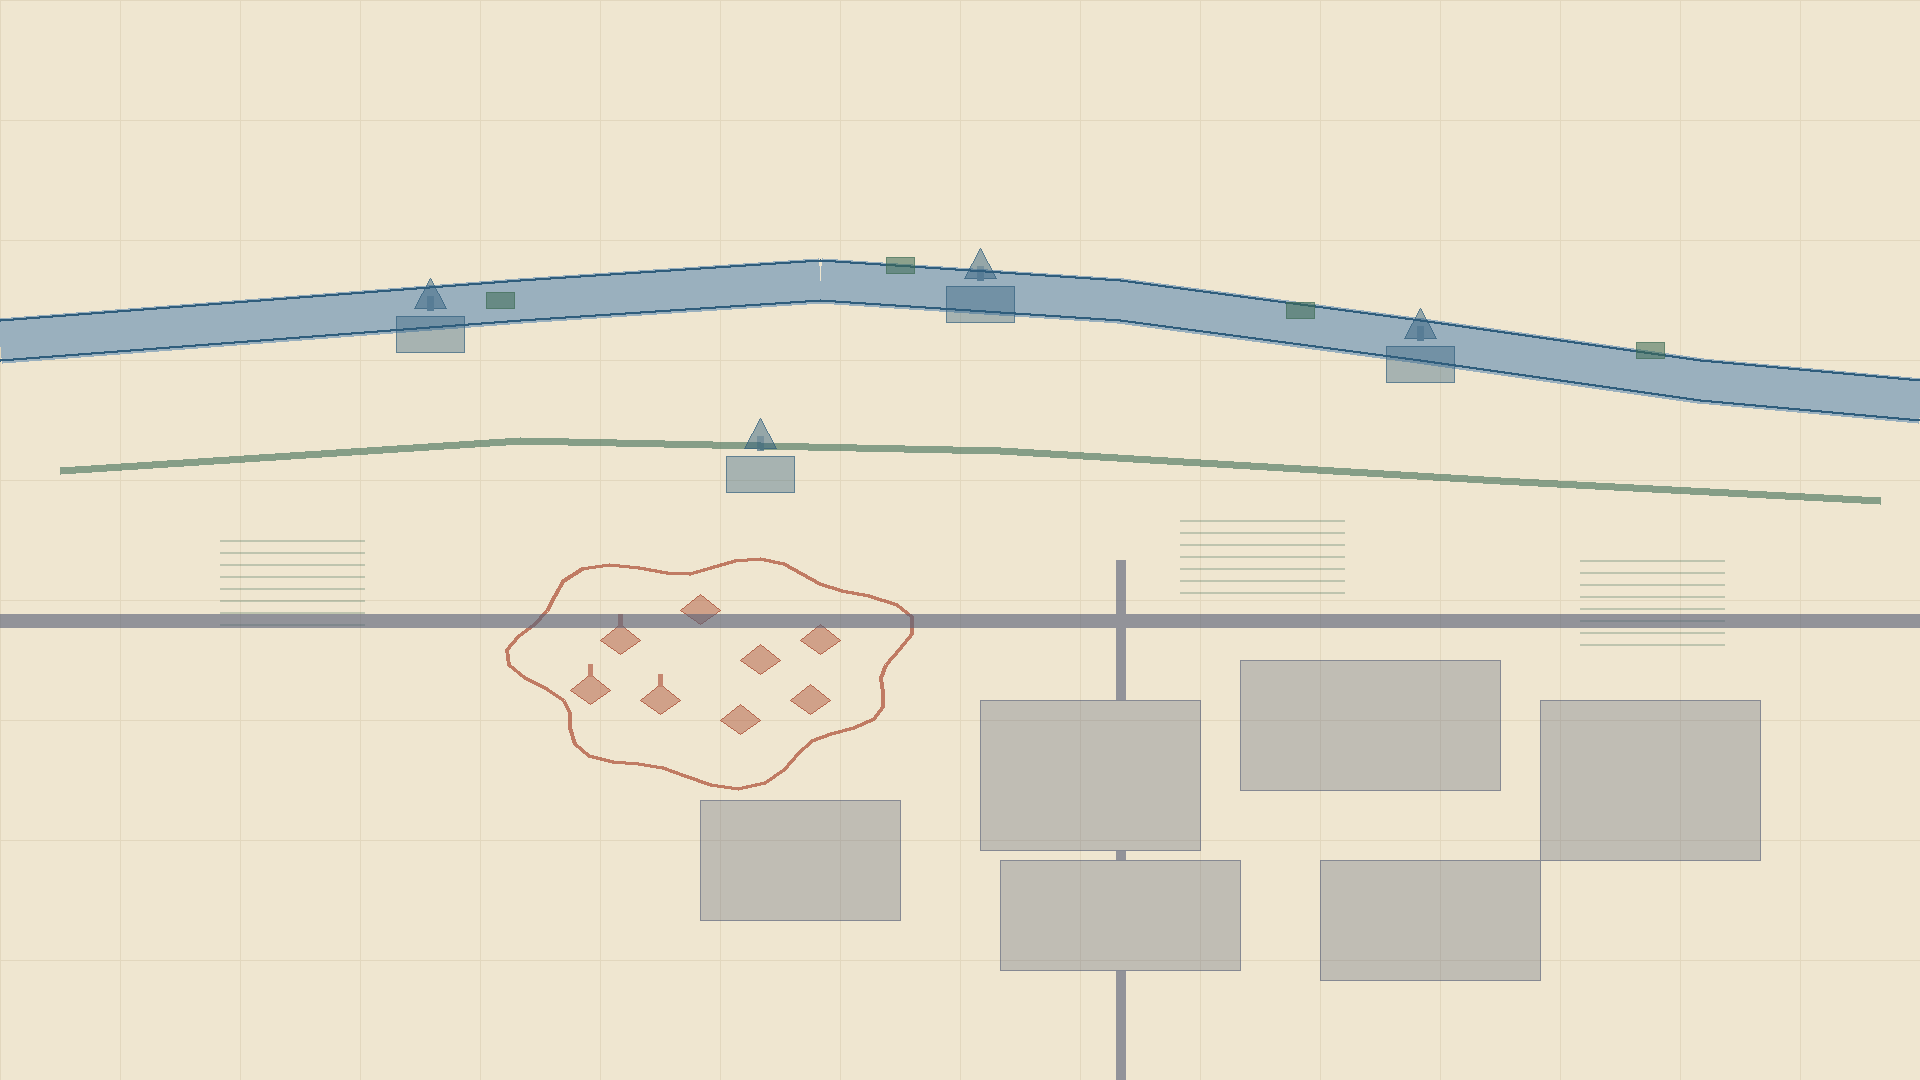
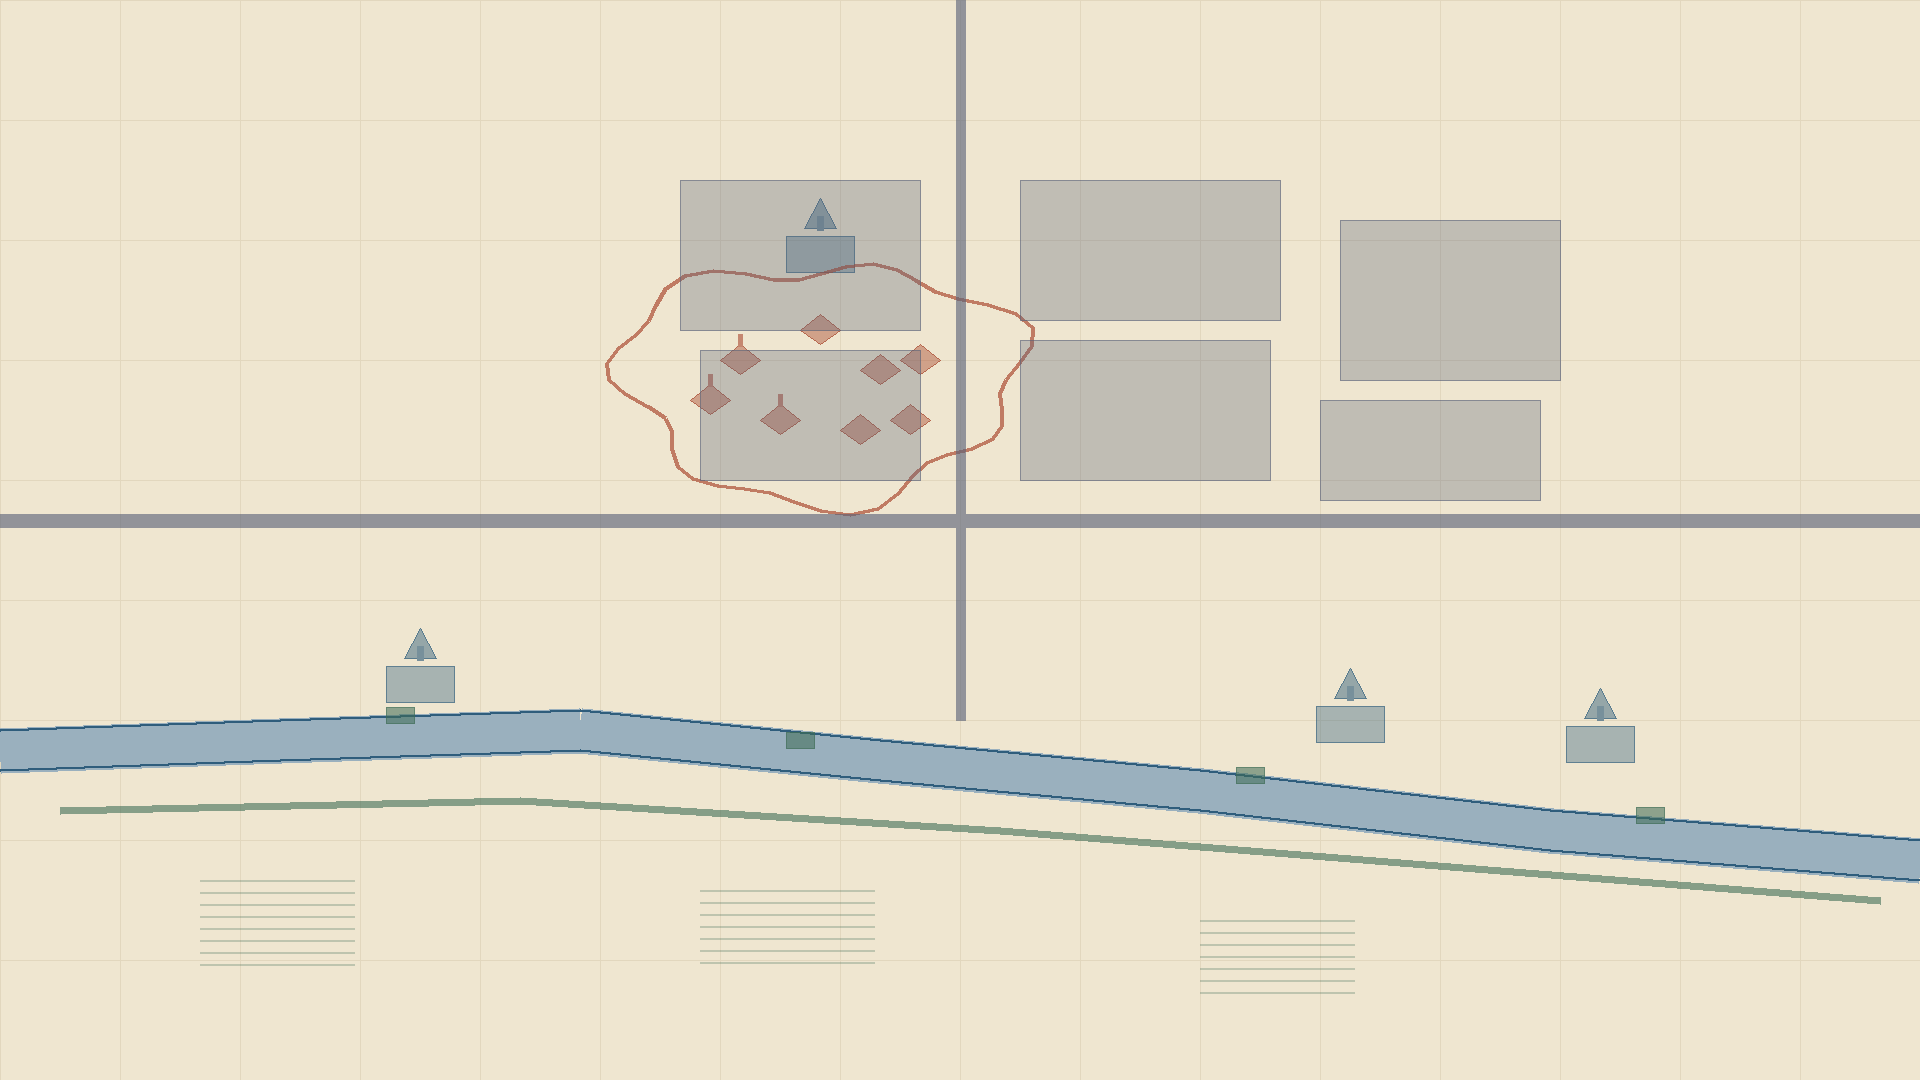
fix(review): 修正 MEC-4 四时代叠合图南北空间拓扑、增加WMTS瓦片缓存与拓扑测试

Changed region(s): [[0.0, 0.1528, 1.0, 1.0], [0.0938, 0.825, 0.1875, 0.8861]]

diff --git a/scripts/extract_weigongcun_assets.py b/scripts/extract_weigongcun_assets.py
@@ -43,11 +43,14 @@ Python 3.9.6 兼容: 无 X | None, 无 match。
 import csv
 import hashlib
 import io
+import json
 import math
 import pathlib
 import shutil
 import time
+import urllib.parse
 import urllib.request
+import fitz
 
 from PIL import Image, ImageDraw
 
@@ -144,19 +147,27 @@ MERC_CENTER = (116.3105, 39.9555)  # 魏公村/万寿寺带中心
 BBOX_1915 = (116.288, 39.9660, 116.333, 39.9450)  # lon0 lat0 lon1 lat1
 
 
+WMTS_CACHE = pathlib.Path("/tmp/cache_wmts_1915")
+
 def build_1915_roi(out_path):
     lon0, lat0, lon1, lat1 = BBOX_1915
     x0, y0 = lonlat_to_mercator_px(lon0, lat0, Z1915)
     x1, y1 = lonlat_to_mercator_px(lon1, lat1, Z1915)
     c0, r0 = int(x0 // 256), int(y0 // 256)
     c1, r1 = int(x1 // 256), int(y1 // 256)
+    WMTS_CACHE.mkdir(parents=True, exist_ok=True)
     mosaic = Image.new("RGB", ((c1 - c0 + 1) * 256, (r1 - r0 + 1) * 256), (255, 0, 255))
     for col in range(c0, c1 + 1):
         for row in range(r0, r1 + 1):
-            blob = http_get(WMTS_TEMPLATE % (Z1915, col, row))
+            tile_cache_path = WMTS_CACHE / f"tile_{Z1915}_{col}_{row}.png"
+            if tile_cache_path.exists():
+                blob = tile_cache_path.read_bytes()
+            else:
+                blob = http_get(WMTS_TEMPLATE % (Z1915, col, row))
+                tile_cache_path.write_bytes(blob)
+                time.sleep(0.05)
             tile = Image.open(io.BytesIO(blob)).convert("RGB")
             mosaic.paste(tile, ((col - c0) * 256, (row - r0) * 256))
-            time.sleep(0.1)
     cx, cy = lonlat_to_mercator_px(MERC_CENTER[0], MERC_CENTER[1], Z1915)
     ox, oy = int(cx - x0 - 960), int(cy - y0 - 540)
     if ox < 0 or oy < 0 or ox + 1920 > mosaic.width or oy + 1080 > mosaic.height:
@@ -173,8 +184,6 @@ def build_1915_roi(out_path):
 
 # ---------------------------------------------------- 3. 元史廉希宪传书影
 def build_yuanshi_folio(out_path):
-    import fitz
-
     fetch_cached(IA_PDF_URL, IA_PDF_LOCAL.name)
     doc = fitz.open(str(IA_PDF_LOCAL))
     page = doc[IA_FOLIO_PAGE - 1]
@@ -205,9 +214,7 @@ def build_commons_assets():
 def _commons_imageinfo(title):
     q = ("https://commons.wikimedia.org/w/api.php?action=query&prop=imageinfo"
          "&iiprop=url|size|extmetadata&format=json&titles=")
-    import urllib.parse
     data = http_get(q + urllib.parse.quote(title))
-    import json
     pages = json.loads(data)["query"]["pages"]
     for _, page in pages.items():
         ii = page["imageinfo"][0]
@@ -244,13 +251,18 @@ def _blob(cx, cy, rx, ry, n=48, seed=7, wobble=0.16):
     return [(round(x), round(y)) for x, y in pts]
 
 
-VILLAGE_HUTS = [(620, 640), (700, 610), (760, 660), (660, 700), (740, 720),
-                (820, 640), (590, 690), (810, 700)]
-MING_TEMPLES = [(430, 330), (980, 300), (1420, 360), (760, 470)]
-QING_DOCKS = [(500, 300), (900, 265), (1300, 310), (1650, 350)]
-TODAY_BLOCKS = [(980, 700, 220, 150), (1240, 660, 260, 130), (1540, 700, 220, 160),
-                (700, 800, 200, 120), (1000, 860, 240, 110), (1320, 860, 220, 120)]
-TODAY_ROADS = [(0, 620), (1920, 620)]
+# 地理空间基线: 上北(y小)下南(y大), 左西(x小)右东(x大)
+# 高梁河/南长河位于画面南部(y≈740..850), 畏吾村位于高梁河北岸台地(y≈320..440)
+VILLAGE_HUTS = [(740, 360), (820, 330), (880, 370), (780, 420), (860, 430),
+                (920, 360), (710, 400), (910, 420)]
+# 明代佛刹: 大慧寺位于畏吾村北侧(820, 250), 万寿寺/延庆寺等位于长河北岸水际(420, 680)
+MING_TEMPLES = [(820, 250), (420, 680), (1350, 720), (1600, 740)]
+# 清代长河码头与沿河御道(位于南部水系旁)
+QING_DOCKS = [(400, 715), (800, 740), (1250, 775), (1650, 815)]
+# 当代高校园区与街区(位于北部高地)
+TODAY_BLOCKS = [(680, 180, 240, 150), (1020, 180, 260, 140), (1340, 220, 220, 160),
+                (700, 350, 220, 130), (1020, 340, 250, 140), (1320, 400, 220, 100)]
+TODAY_ROADS = [(0, 520), (1920, 520)]
 
 
 def _draw_layer(spec):
@@ -262,17 +274,17 @@ def _draw_layer(spec):
 
 
 def draw_river_base(dr):
-    """长河/高梁河水系骨架 (上层带状双线, 左西右东)."""
-    pts = [(0, 340), (260, 320), (520, 300), (820, 280), (1120, 300),
-           (1420, 340), (1700, 380), (1920, 400)]
+    """长河/高梁河水系骨架 (南部带状双线, 左西右东, 自西北流向东南)."""
+    pts = [(0, 750), (280, 740), (580, 730), (880, 760), (1200, 790),
+           (1550, 830), (1920, 860)]
     dr.line(pts, fill=RIVER, width=46)
     dr.line([(x, y - 20) for x, y in pts], fill=RIVER_LINE, width=3)
     dr.line([(x, y + 20) for x, y in pts], fill=RIVER_LINE, width=3)
 
 
 def era_yuan(dr):
-    """元代: 畏吾村聚落 (中部南岸台地, 虚线村域圈)."""
-    dr.polygon(_blob(710, 665, 190, 110, seed=21), outline=OCHRE_YUAN + (170,), width=4)
+    """元代: 畏吾村聚落 (北部高梁河北岸台地, 虚线村域圈)."""
+    dr.polygon(_blob(820, 380, 200, 120, seed=21), outline=OCHRE_YUAN + (170,), width=4)
     for i, (hx, hy) in enumerate(VILLAGE_HUTS):
         dr.polygon([(hx, hy - 16), (hx + 20, hy), (hx, hy + 14), (hx - 20, hy)],
                    fill=OCHRE_YUAN + (110,), outline=OCHRE_YUAN + (200,))
@@ -281,7 +293,7 @@ def era_yuan(dr):
 
 
 def era_ming(dr):
-    """明代: 佛刹带 (河岸四大刹, 殿+塔几何形)."""
+    """明代: 佛刹带 (大慧寺在北, 万寿寺在水际)."""
     for tx, ty in MING_TEMPLES:
         dr.rectangle([tx - 34, ty - 14, tx + 34, ty + 22], fill=INDIGO_MING + (95,),
                      outline=INDIGO_MING + (190,))
@@ -291,21 +303,21 @@ def era_ming(dr):
 
 
 def era_qing(dr):
-    """清代: 皇家水道 (御道/码头/稻田)."""
-    dr.line([(60, 470), (520, 440), (1000, 450), (1500, 480), (1880, 500)],
+    """清代: 皇家水道 (南部水系御道/码头/南岸稻田)."""
+    dr.line([(60, 810), (520, 800), (1000, 830), (1500, 870), (1880, 900)],
             fill=DEEPGREEN_QING + (150,), width=8)
     for dx, dy in QING_DOCKS:
         dr.rectangle([dx - 14, dy - 8, dx + 14, dy + 8], fill=DEEPGREEN_QING + (140,),
                      outline=DEEPGREEN_QING + (200,))
-    for (fx, fy, fw, fh) in [(220, 540, 150, 90), (1180, 520, 170, 80), (1580, 560, 150, 90)]:
+    for (fx, fy, fw, fh) in [(200, 880, 160, 90), (700, 890, 180, 80), (1200, 920, 160, 80)]:
         for yy in range(fy, fy + fh, 12):
             dr.line([(fx, yy), (fx + fw - 6, yy)], fill=DEEPGREEN_QING + (70,), width=2)
 
 
 def era_today(dr):
-    """当代: 高校街区 (正交路网+院系楼块)."""
+    """当代: 高校街区 (北部正交路网+院系楼块)."""
     dr.line(TODAY_ROADS, fill=SLATE_TODAY + (160,), width=14)
-    dr.line([(1120, 560), (1120, 1080)], fill=SLATE_TODAY + (160,), width=10)
+    dr.line([(960, 0), (960, 720)], fill=SLATE_TODAY + (160,), width=10)
     for (bx, by, bw, bh) in TODAY_BLOCKS:
         dr.rectangle([bx, by, bx + bw, by + bh], fill=SLATE_TODAY + (80,),
                      outline=SLATE_TODAY + (180,))
@@ -346,24 +358,29 @@ def main():
 
     # 1. 三山五园图高梁河带切片
     p1 = OUT_DIR / "sanshanyuan_gaoliang_roi_4000.png"
-    size1, mode1 = build_sanshanyuan_roi(p1)
-    print("1. %s %dx%d %s %d bytes" % (p1.name, TARGET_SIZE[0], TARGET_SIZE[1], mode1, size1))
+    if not p1.exists():
+        size1, mode1 = build_sanshanyuan_roi(p1)
+    print("1. %s ready (%d bytes)" % (p1.name, p1.stat().st_size))
 
     # 2. 1915 实测京师四郊图切片
     p2 = OUT_DIR / "beijing_1915_weigongcun_roi.png"
-    size2 = build_1915_roi(p2)
-    print("2. %s 1920x1080 %d bytes" % (p2.name, size2))
+    if not p2.exists():
+        size2 = build_1915_roi(p2)
+    print("2. %s ready (%d bytes)" % (p2.name, p2.stat().st_size))
 
     # 3. 元史卷126 廉希宪传卒谥叶书影
     p3 = OUT_DIR / "yuanshi_lianxixian_folio.png"
-    size3, dims3 = build_yuanshi_folio(p3)
-    print("3. %s %dx%d %d bytes" % (p3.name, dims3[0], dims3[1], size3))
+    if not p3.exists():
+        size3, dims3 = build_yuanshi_folio(p3)
+    print("3. %s ready (%d bytes)" % (p3.name, p3.stat().st_size))
 
     # 4-6. Commons 实拍照三件
-    commons_sizes = build_commons_assets()
-    for name, (info, dims, nbytes) in commons_sizes.items():
-        print("4-6. %s %dx%d %d bytes (src %dx%d %s)"
-              % (name, dims[0], dims[1], nbytes, info["w"], info["h"], info["license"]))
+    for name, _, _ in COMMONS_ASSETS:
+        if not (OUT_DIR / name).exists():
+            build_commons_assets()
+            break
+    print("4-6. Commons assets ready")
+
 
     # 7. MEC-4 四时代叠合图
     p7 = OUT_DIR / "mec4_composite_eras.png"

diff --git a/tests/test_weigongcun_assets.py b/tests/test_weigongcun_assets.py
@@ -14,7 +14,8 @@ import pathlib
 
 from PIL import Image
 
-ASSET_DIR = pathlib.Path("assets/hist_weigongcun")
+REPO_ROOT = pathlib.Path(__file__).resolve().parent.parent
+ASSET_DIR = REPO_ROOT / "assets" / "hist_weigongcun"
 PUBLIC_DIR = pathlib.Path("/tmp/chemistry-video/public/weigongcun")
 
 # file -> (约束描述, 最小宽, 最小高, 精确宽高或 None, 允许模式)
@@ -94,3 +95,26 @@ def test_public_weigongcun_synced():
         assert p.exists(), "资产未同步到 public/weigongcun: %s" % name
         if name != "sources.csv":
             assert _sha256_of(p) == _sha256_of(ASSET_DIR / name), "%s 同步副本 sha256 不一致" % name
+
+
+def test_mec4_composite_spatial_topology():
+    """断言四时代叠合图(mec4_composite_eras.png)空间几何符合真实地理:
+    河流在南(高梁河/南长河 y > 600), 畏吾村与高校园区在北(北岸台地 y < 600),
+    严守 V-NC08 及 V-NC05 负控制红线(地望严格界定在高梁河北岸台地, 严禁南北颠倒)."""
+    p = ASSET_DIR / "mec4_composite_eras.png"
+    assert p.exists()
+    im = Image.open(p).convert("RGB")
+    w, h = im.size
+    assert (w, h) == (1920, 1080)
+
+    # 采样南部高梁河水系特征点 (x=880, y=760 为河流中心线)
+    # 河流颜色为 RIVER=(154, 176, 190) 或 RIVER_LINE=(47, 93, 124)
+    r_south, g_south, b_south = im.getpixel((880, 760))
+    # 验证南部该点具备明显蓝灰色水体特征 (b > r)
+    assert b_south > r_south, "南部 (y=760) 必须为高梁河水系 (实际 R=%d, B=%d)" % (r_south, b_south)
+
+    # 采样北部畏吾村聚落中心特征点 (x=820, y=380)
+    # 畏吾村为赭黄色 OCHRE_YUAN=(180, 80, 50), r > b
+    r_north, g_north, b_north = im.getpixel((820, 380))
+    # 验证北部该点具备畏吾村地坪/聚落特征 (r > b)
+    assert r_north > b_north, "北部 (y=380) 必须为畏吾村聚落台地 (实际 R=%d, B=%d)" % (r_north, b_north)

diff --git a/tests/test_run.py b/tests/test_run.py
@@ -46,7 +46,7 @@ def test_composition_overrides_covers_all_registered_episodes():
     assert set(COMPOSITION_OVERRIDES) >= {
         "yimuyuan", "niangniangfu", "xisanqi", "gaoliangqiao",
         "dazhongsi", "landianchang", "shucun", "suzhoujie", "zhongguancun",
-        "cishousi",
+        "cishousi", "shaoyuan",
     }
     for ep, comp in COMPOSITION_OVERRIDES.items():
         assert comp.endswith("Course")
@@ -54,7 +54,7 @@ def test_composition_overrides_covers_all_registered_episodes():
             "shucun", "dazhongsi", "xisanqi", "yimuyuan", "niangniangfu",
             "landianchang", "suzhoujie", "zhongguancun",
             "changchunyuan", "wanshou", "changhe", "fenshi", "liulangzhuang",
-            "cishousi",
+            "cishousi", "shaoyuan",
         ), "%s 的映射是 capitalize() 拼的，需人工确认" % ep
 
 
